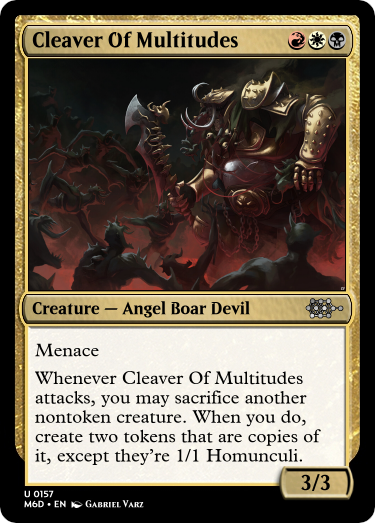
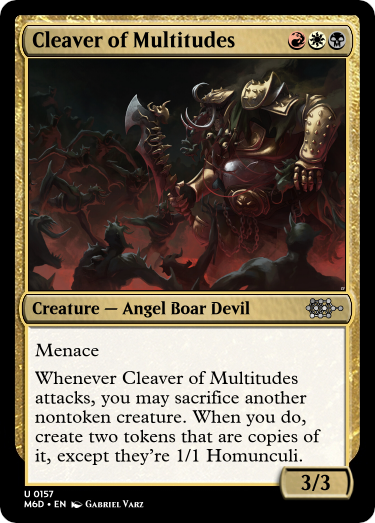
fixes

Changed region(s): [[0.2933, 0.0612, 0.6453, 0.0918], [0.4987, 0.7036, 0.8213, 0.7342]]

diff --git a/previews/M6D.html b/previews/M6D.html
@@ -499,7 +499,7 @@
 				<div class="container"><img loading="lazy" alt="img\e.png" id="M6D_e" data-flag="@E" onclick="openSidebar('M6D_e',false)"></div>
 				<div class="container"><img loading="lazy" alt="img\e.png" id="M6D_e" data-flag="@E" onclick="openSidebar('M6D_e',false)"></div>
 				<div class="container"><img loading="lazy" alt="img\e.png" id="M6D_e" data-flag="@E" onclick="openSidebar('M6D_e',false)"></div>
-				<div class="container"><img loading="lazy" alt="sets\M6D-files\img\157_Cleaver Of Multitudes.png" id="M6D_157_Cleaver Of Multitudes" data-flag="@X" onclick="openSidebar('M6D_157_Cleaver Of Multitudes',false)"></div>
+				<div class="container"><img loading="lazy" alt="sets\M6D-files\img\157_Cleaver of Multitudes.png" id="M6D_157_Cleaver of Multitudes" data-flag="@X" onclick="openSidebar('M6D_157_Cleaver of Multitudes',false)"></div>
 				<div class="container"><img loading="lazy" alt="sets\M6D-files\img\151_Benshachat Praetorian.png" id="M6D_151_Benshachat Praetorian" data-flag="@X" onclick="openSidebar('M6D_151_Benshachat Praetorian',false)"></div>
 				<div class="container"><img loading="lazy" alt="img\e.png" id="M6D_e" data-flag="@E" onclick="openSidebar('M6D_e',false)"></div>
 				<div class="container"><img loading="lazy" alt="img\e.png" id="M6D_e" data-flag="@E" onclick="openSidebar('M6D_e',false)"></div>
